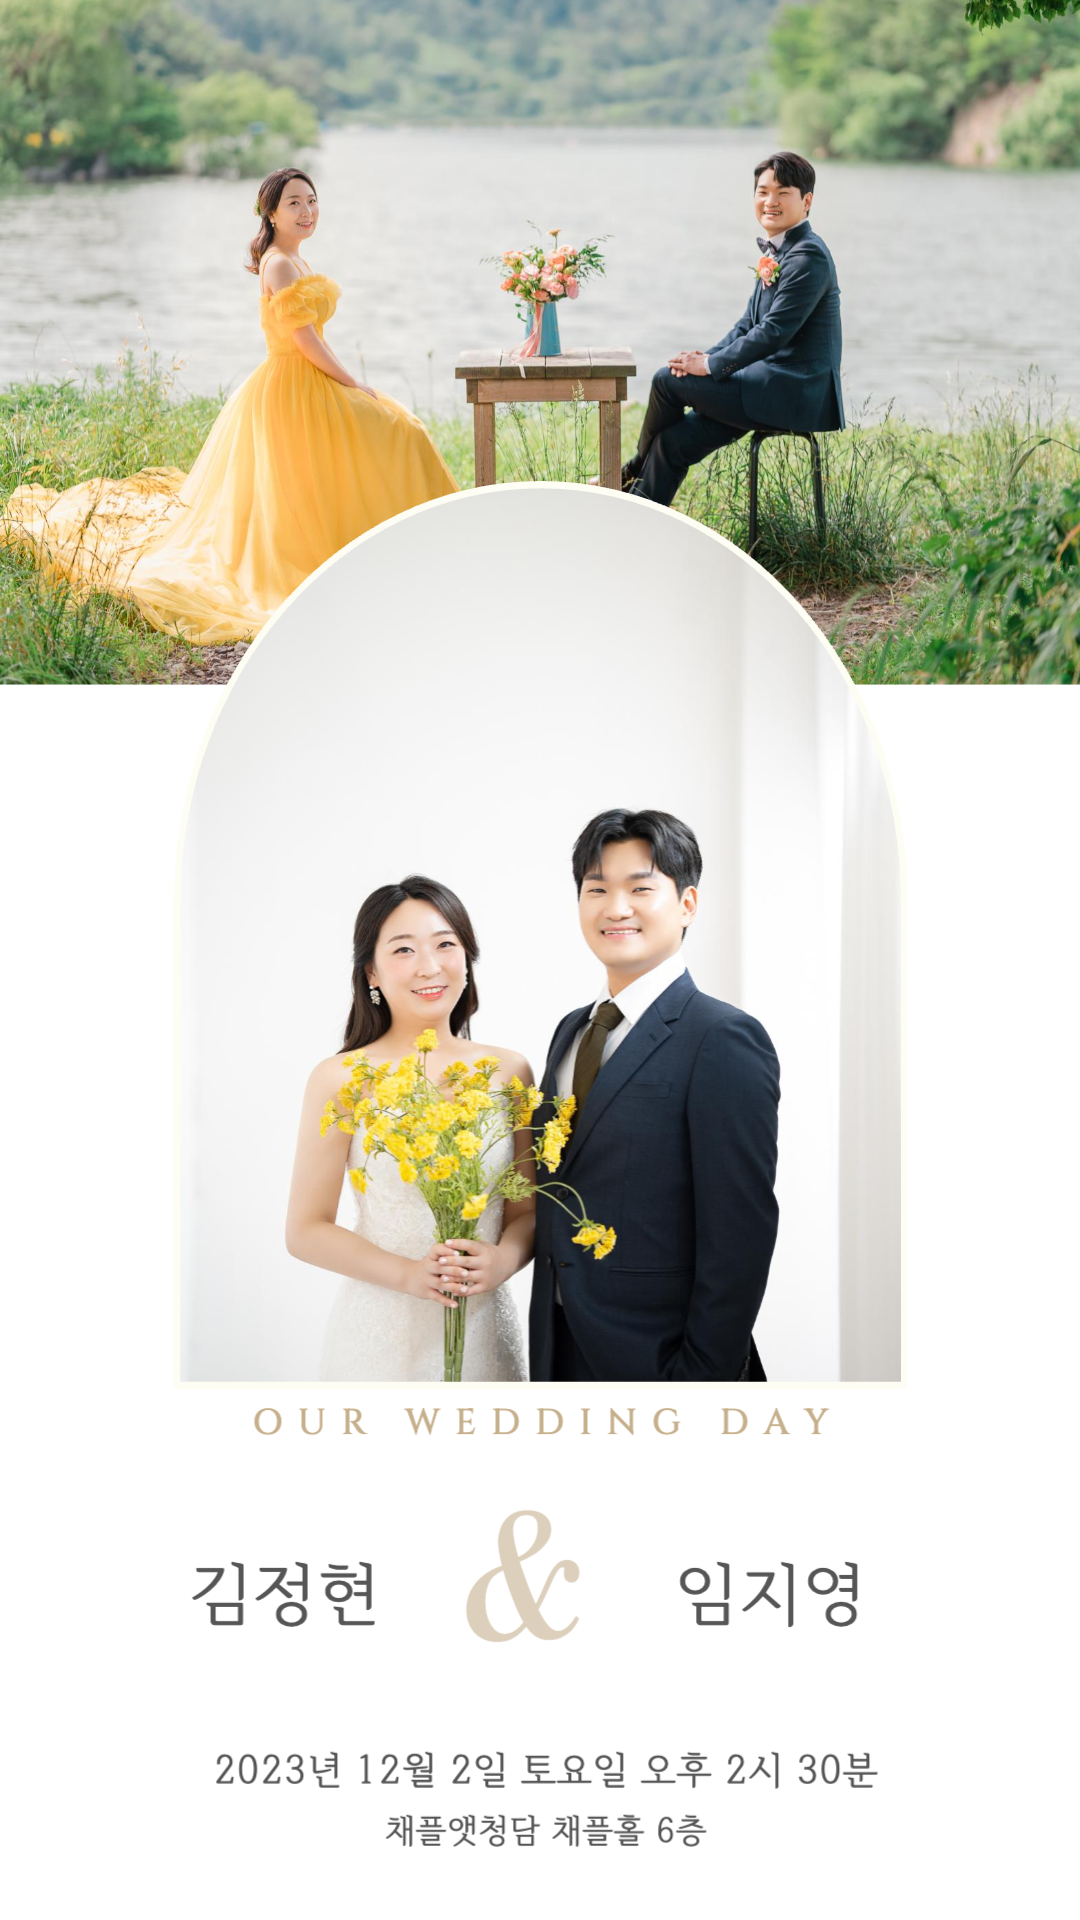
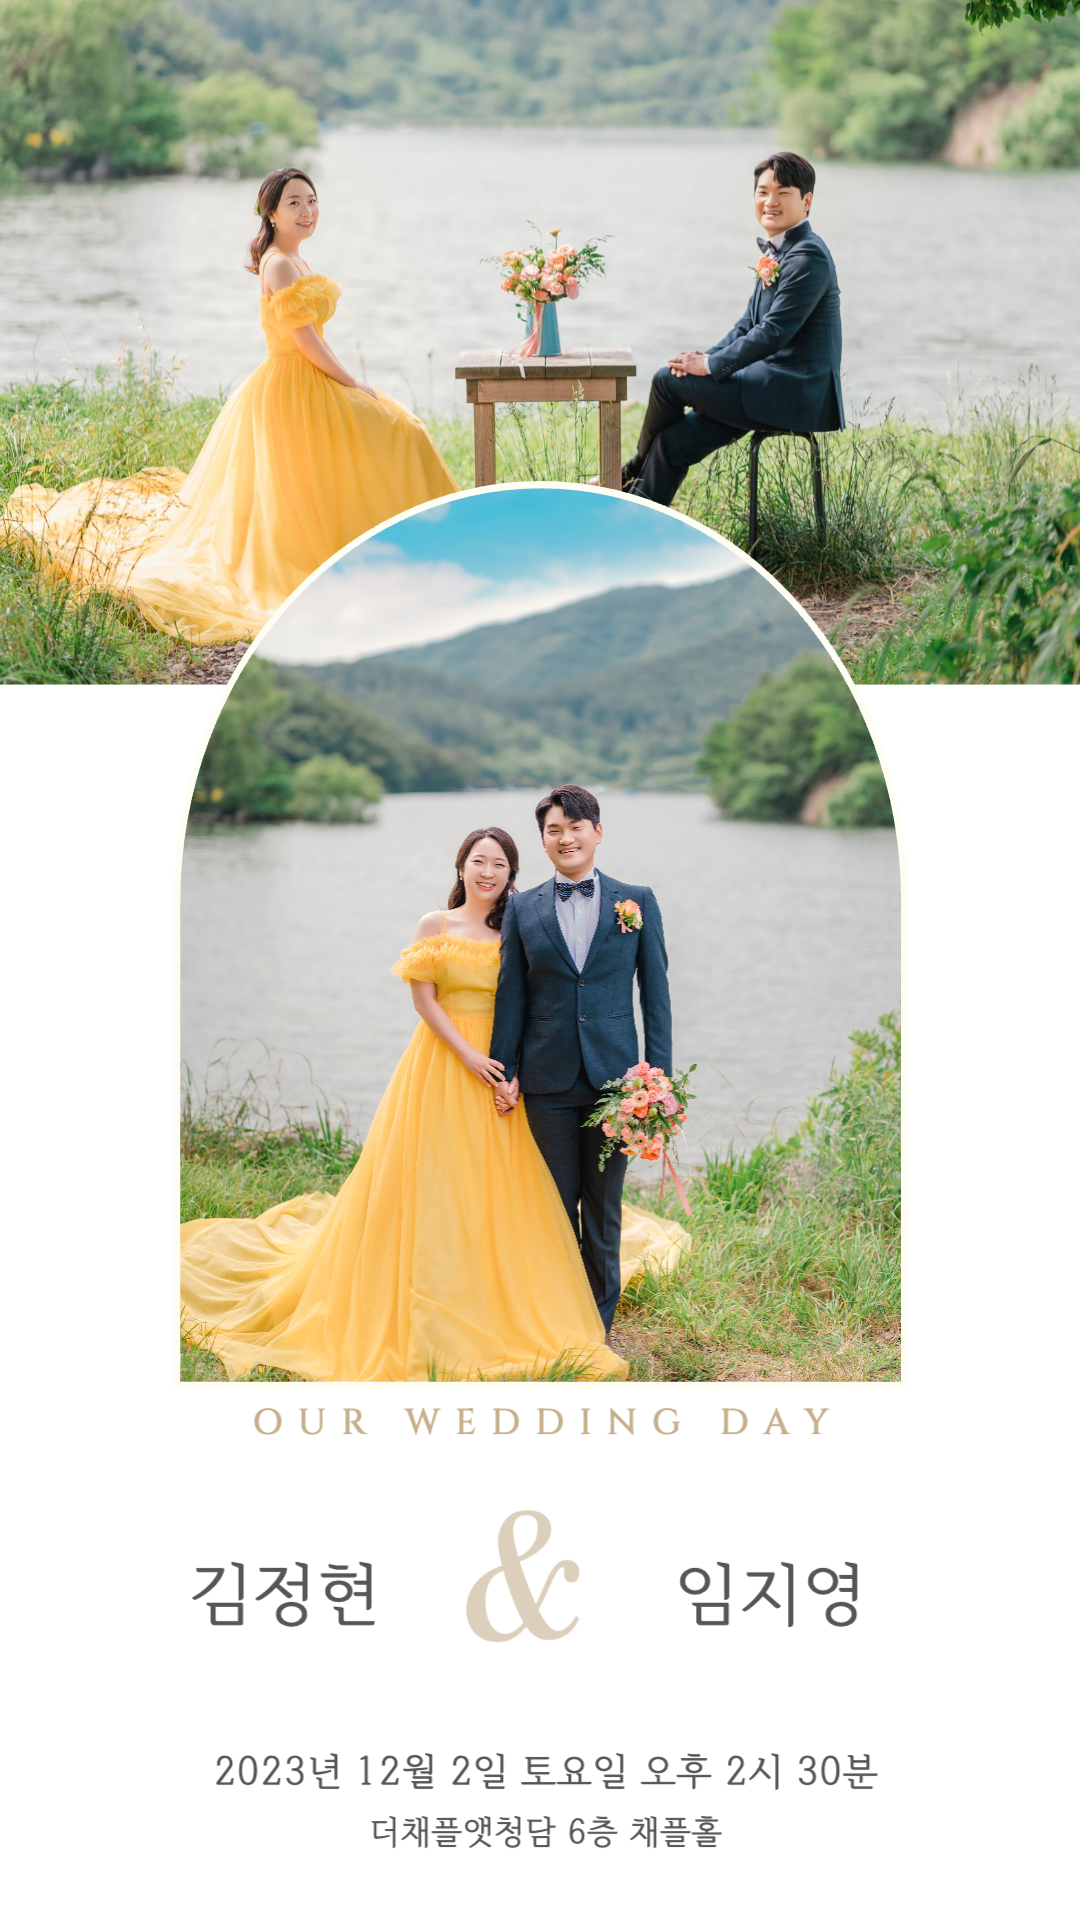
add

diff --git a/index.html b/index.html
@@ -12,7 +12,7 @@
     <meta property="og:type" content="website" />
     <meta property="og:title" content="김정현♥임지영 결혼합니다 (2023.12.02)" />
     <meta property="og:description" content="Since 2015.12.01" />
-    <meta property="og:image" content="https://dpnia.github.io/wedding/images/001.png" />
+    <meta property="og:image" content="https://dpnia.github.io/wedding/images/og.jpg" />
 
     <link rel="stylesheet" type="text/css" href="./index.css" />
   </head>
@@ -21,21 +21,22 @@
     <img loading="lazy" src="./images/002.png"  />
 
     <img loading="lazy" src="./images/003.png" />
+    <img loading="lazy" src="./images/003-1.png" />
     <img loading="lazy" src="./images/004.png" />
-    <img loading="lazy" src="./images/005.png" />
+    <!-- <img loading="lazy" src="./images/005.png" /> -->
     <img loading="lazy" src="./images/006.png" />
     <img loading="lazy" src="./images/007.png" />
     <img loading="lazy" src="./images/008.png" />
-    <img loading="lazy" src="./images/009.png" />
+    <!-- <img loading="lazy" src="./images/009.png" /> -->
     <img loading="lazy" src="./images/010.png" />
     <img loading="lazy" src="./images/011.png" />
     <img loading="lazy" src="./images/012.png" />
-    <img loading="lazy" src="./images/013.png" />
-    <img loading="lazy" src="./images/014.png" />
+    <!-- <img loading="lazy" src="./images/013.png" /> -->
+    <!-- <img loading="lazy" src="./images/014.png" /> -->
     <img loading="lazy" src="./images/015.png" />
     <img loading="lazy" src="./images/016.png" />
     <img loading="lazy" src="./images/017.png" />
-    <img loading="lazy" src="./images/018.png" />
+    <!-- <img loading="lazy" src="./images/018.png" /> -->
     <img loading="lazy" src="./images/019.png" />
     <img loading="lazy" src="./images/020.png" />
     <img loading="lazy" src="./images/021.png" />
